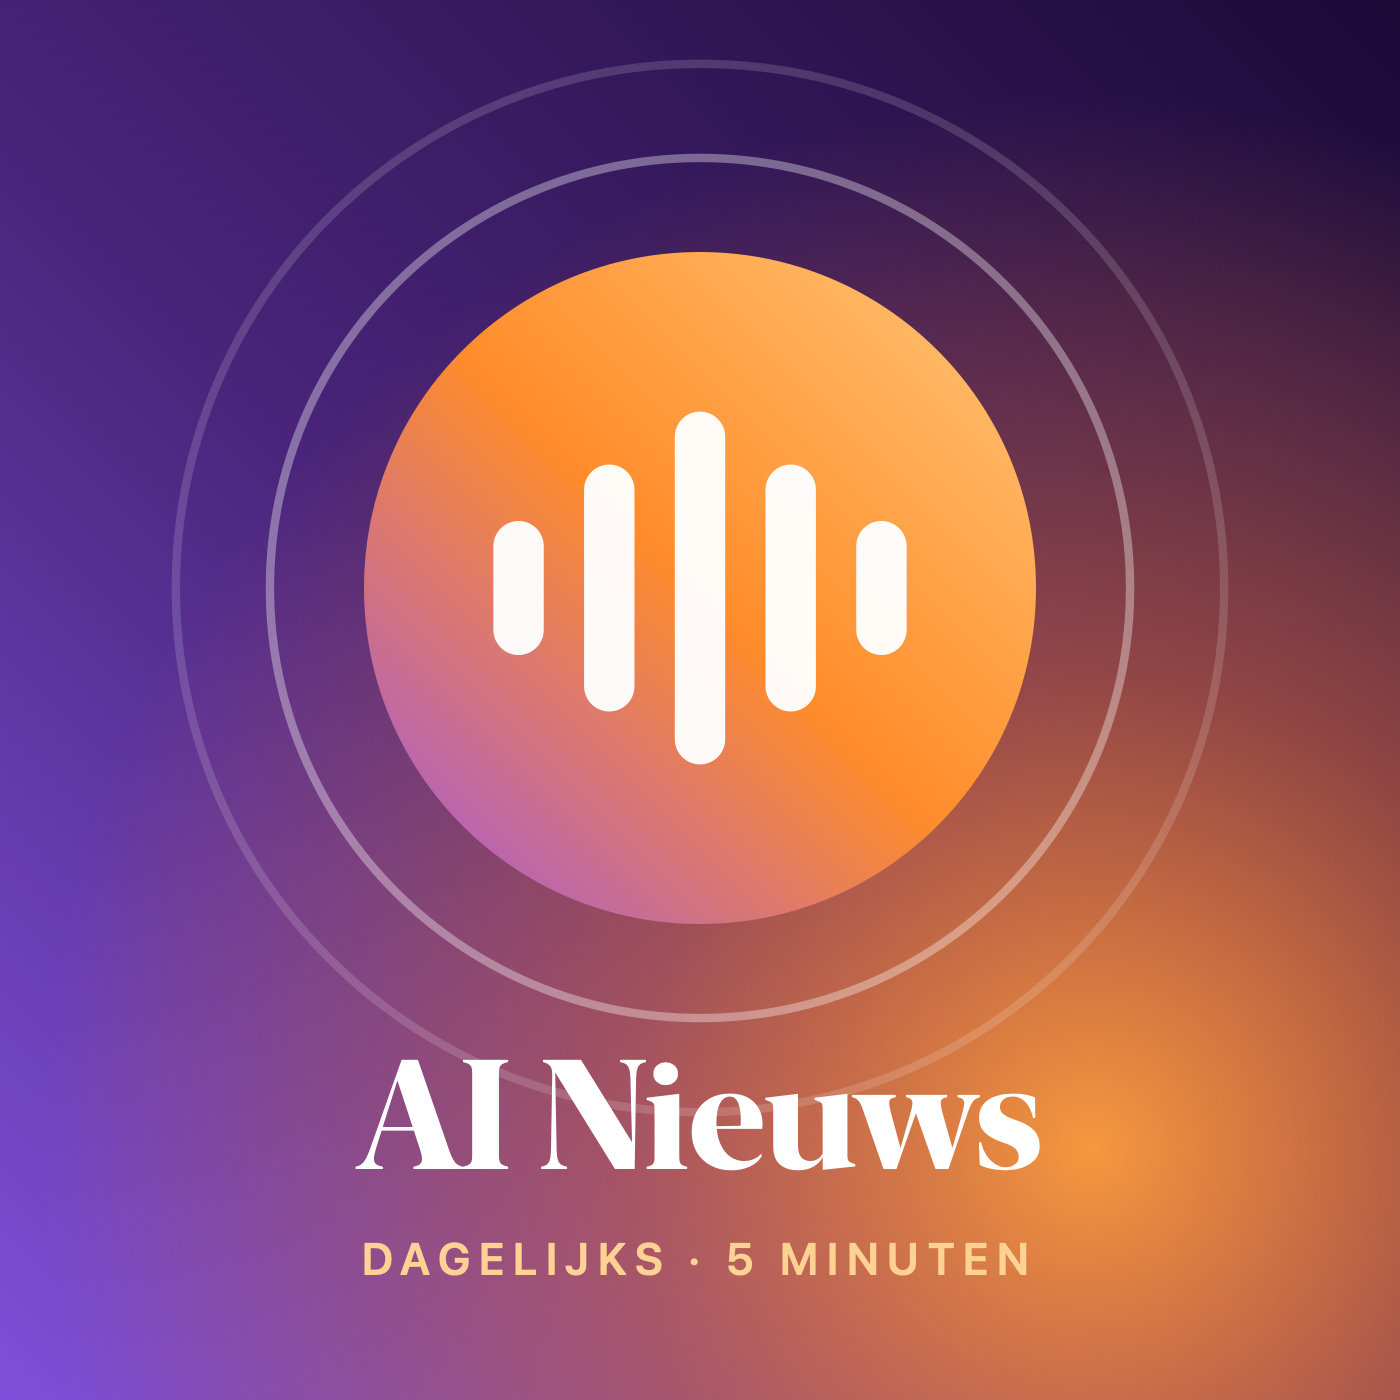
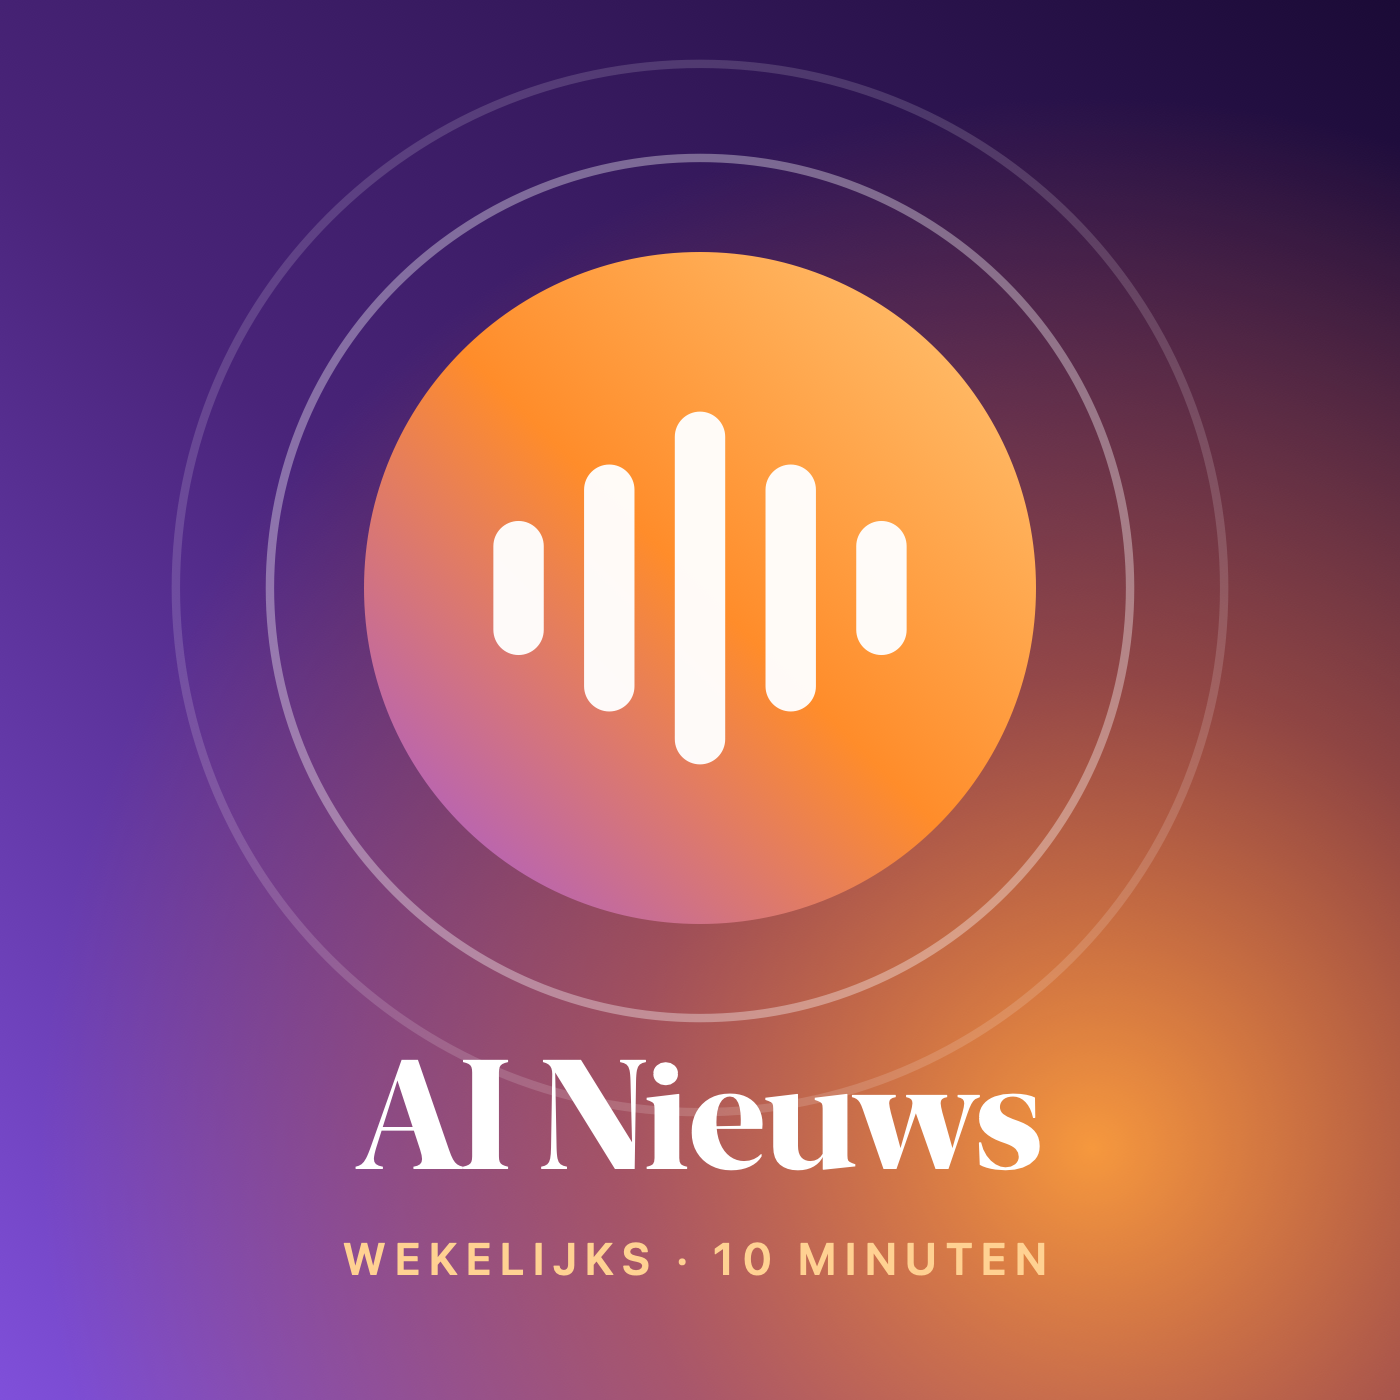
Weekoverzicht van 10 minuten en aan/uit-knop in de app
- Nieuwe status.json: de wekelijkse taak slaat het maken over als de podcast is uitgezet.
- Web-app: uitzetknop, pauzebanner en koppeling met GitHub om de status op te slaan.
- Teksten, cover en RSS-beschrijving aangepast naar wekelijks.

Changed region(s): [[0.2457, 0.8907, 0.7679, 0.9214]]

diff --git a/index.html b/index.html
@@ -4,7 +4,7 @@
 <meta charset="utf-8">
 <meta name="viewport" content="width=device-width,initial-scale=1,viewport-fit=cover">
 <title>AI Nieuws</title>
-<meta name="description" content="Het belangrijkste uit de wereld van AI, elke ochtend in vijf minuten.">
+<meta name="description" content="Elke maandag het belangrijkste uit de wereld van AI, in tien minuten.">
 <meta name="theme-color" content="#0f081f">
 <meta name="apple-mobile-web-app-capable" content="yes">
 <meta name="mobile-web-app-capable" content="yes">
@@ -66,6 +66,44 @@ header .eyebrow { color: var(--amber); }
 header h1 { margin: 6px 0 6px; font-size: 40px; font-weight: 700; display: flex; align-items: baseline; gap: 10px; }
 header h1 .dot { width: 10px; height: 10px; border-radius: 50%; background: var(--warm); box-shadow: 0 0 10px var(--orange); }
 header p { margin: 0; font-size: 15px; color: rgba(255,255,255,.65); line-height: 1.4; }
+.head-row { display: flex; align-items: flex-start; justify-content: space-between; gap: 12px; }
+.head-row .round { flex: none; margin-top: 2px; position: relative; }
+.head-row .round.off { background: rgba(255,186,97,.18); color: var(--amber); }
+.head-row .round.off::after { content: ""; position: absolute; top: 2px; right: 2px; width: 9px; height: 9px; border-radius: 50%;
+  background: var(--amber); box-shadow: 0 0 0 2px var(--ink); }
+
+/* Pauze */
+.pausebar { padding: 16px 18px; display: flex; align-items: center; gap: 14px; animation: rise .6s cubic-bezier(.2,.9,.25,1) both; }
+.pausebar .pi { flex: none; width: 40px; height: 40px; border-radius: 50%; background: rgba(255,186,97,.16); color: var(--amber); display: grid; place-items: center; }
+.pausebar .pi svg { width: 18px; height: 18px; }
+.pausebar div { flex: 1; min-width: 0; font-size: 13px; line-height: 1.4; color: rgba(255,255,255,.7); }
+.pausebar strong { display: block; font-size: 15px; color: #fff; margin-bottom: 2px; }
+.chip-btn { flex: none; padding: 8px 14px; border-radius: 99px; background: var(--warm); color: var(--ink); font-size: 13px; font-weight: 650; }
+
+.set-lead { margin: -6px 0 18px; font-size: 15px; line-height: 1.45; color: rgba(255,255,255,.7); }
+.state { display: flex; align-items: center; gap: 12px; padding: 14px 16px; border-radius: 18px; background: rgba(255,255,255,.06); margin-bottom: 18px; }
+.state .led { flex: none; width: 10px; height: 10px; border-radius: 50%; background: #5be08a; box-shadow: 0 0 10px #5be08a; }
+.state.off .led { background: var(--amber); box-shadow: 0 0 10px var(--amber); }
+.state div { font-size: 13px; line-height: 1.4; color: rgba(255,255,255,.65); }
+.state strong { display: block; font-size: 15px; color: #fff; }
+.opts { display: grid; grid-template-columns: 1fr 1fr; gap: 10px; margin: 12px 0 14px; }
+.opt { padding: 14px 12px; border-radius: 16px; background: rgba(255,255,255,.08); font-size: 15px; font-weight: 600; text-align: center; }
+.opt small { display: block; font-size: 12px; font-weight: 500; color: rgba(255,255,255,.55); margin-top: 3px; }
+.btn-wide { width: 100%; padding: 15px; border-radius: 16px; background: var(--accent); font-size: 16px; font-weight: 650;
+  box-shadow: inset 0 0 0 1px rgba(255,255,255,.3); margin-bottom: 14px; }
+.btn-wide[disabled], .opt[disabled] { opacity: .5; }
+.note { font-size: 13px; line-height: 1.45; color: rgba(255,255,255,.55); margin: 0; }
+.set-msg { min-height: 18px; font-size: 13px; color: var(--amber); margin: 10px 0 0; }
+.set-msg.ok { color: #5be08a; }
+#sheet ol.token-steps { display: block; list-style: decimal; margin: 10px 0 12px; padding-left: 20px; font-size: 14px; line-height: 1.55; color: rgba(255,255,255,.8); }
+#sheet ol.token-steps li { display: list-item; font-size: 14px; margin-bottom: 4px; }
+.token-steps a { color: var(--amber); }
+.token-row { display: flex; gap: 8px; }
+.token-row input { flex: 1; min-width: 0; padding: 12px 14px; border-radius: 14px; border: 1px solid rgba(255,255,255,.15);
+  background: rgba(0,0,0,.25); color: #fff; font: 15px var(--sans); }
+.token-row button { flex: none; padding: 0 16px; border-radius: 14px; background: var(--warm); color: var(--ink); font-weight: 650; }
+.linked { font-size: 13px; color: rgba(255,255,255,.55); }
+.linked button { color: var(--amber); text-decoration: underline; font-size: 13px; }
 
 .hero { padding: 22px; display: flex; flex-direction: column; gap: 18px; animation: rise .7s cubic-bezier(.2,.9,.25,1) both; }
 @keyframes rise { from { opacity: 0; transform: translateY(24px); } }
@@ -232,11 +270,17 @@ body.player-open #player { transform: none; visibility: visible; transition: tra
 
 <main id="home">
   <header>
-    <div class="eyebrow" id="today"></div>
-    <h1 class="display">AI Nieuws <span class="dot"></span></h1>
-    <p>Het belangrijkste uit de wereld van AI, elke ochtend in vijf minuten.</p>
+    <div class="head-row">
+      <div>
+        <div class="eyebrow" id="today"></div>
+        <h1 class="display">AI Nieuws <span class="dot"></span></h1>
+      </div>
+      <button class="round press" data-act="settings" id="setBtn" aria-label="Afleveringen aan- of uitzetten"></button>
+    </div>
+    <p>Elke maandag het belangrijkste uit de wereld van AI, in tien minuten.</p>
   </header>
   <div id="install-slot"></div>
+  <div id="status-slot"></div>
   <div id="hero-slot"><div class="loading"><div class="spinner"></div></div></div>
   <section id="archive-slot"></section>
   <footer>Liever in een podcast-app? <a href="feed.xml">RSS-feed</a></footer>
@@ -306,6 +350,7 @@ const ICON = {
   wave: '<svg viewBox="0 0 48 48"><circle cx="24" cy="24" r="21" fill="none" stroke="currentColor" stroke-width="1.6"/><path d="M14 24v0M19 19v10M24 14v20M29 19v10M34 24v0" stroke="currentColor" stroke-width="2.6" stroke-linecap="round"/></svg>',
   share: '<svg viewBox="0 0 24 24"><path d="M12 3v12M7.5 7.5L12 3l4.5 4.5M6 11H5a1 1 0 0 0-1 1v8a1 1 0 0 0 1 1h14a1 1 0 0 0 1-1v-8a1 1 0 0 0-1-1h-1" fill="none" stroke="currentColor" stroke-width="2" stroke-linecap="round" stroke-linejoin="round"/></svg>',
   x: '<svg viewBox="0 0 24 24"><path d="M6 6l12 12M18 6L6 18" stroke="currentColor" stroke-width="3" stroke-linecap="round"/></svg>',
+  power: '<svg viewBox="0 0 24 24"><path d="M12 3.5v8M6.7 6.6a7.6 7.6 0 1 0 10.6 0" fill="none" stroke="currentColor" stroke-width="2.4" stroke-linecap="round"/></svg>',
   skip(dir) {
     const flip = dir > 0 ? ' transform="matrix(-1 0 0 1 32 0)"' : '';
     return `<svg viewBox="0 0 32 32"><g${flip} fill="none" stroke="currentColor" stroke-width="2.2" stroke-linecap="round" stroke-linejoin="round"><path d="M16 4.5A11.5 11.5 0 1 1 5.3 11.8"/><path d="M18.6 1.6L15.3 4.6l3.3 3"/></g><text x="16" y="20.6" text-anchor="middle" font-size="9.5" font-weight="700" font-family="-apple-system,system-ui,sans-serif" fill="currentColor">15</text></svg>`;
@@ -366,12 +411,15 @@ const S = {
   current: null, playing: false, loading: false, playError: null,
   rate: 1, level: 0, history: new Array(40).fill(0),
   env: null, playerOpen: false, wave: [],
+  status: { paused: false, until: null, updatedAt: null }, saving: false, setMsg: '', setOk: false,
 };
 const RATES = [1, 1.25, 1.5, 0.75];
 const audio = $('#audio');
 let pendingSeek = null;
 
 // ---------- Feed ----------
+const EMPTY_MSG = 'Nog geen afleveringen gepubliceerd. De volgende verschijnt maandag om 08:00.';
+const kindLabel = (ep) => (ep.kind === 'weekly' ? 'Weekoverzicht' : 'Dagbulletin');
 function setFeed(feed) {
   S.episodes = (feed.episodes || []).slice().sort((a, b) => new Date(b.publishedAt) - new Date(a.publishedAt));
   S.loaded = true;
@@ -382,11 +430,11 @@ if (cached) { try { setFeed(JSON.parse(cached)); } catch {} }
 async function refresh() {
   try {
     const res = await fetch(`episodes.json?t=${Date.now()}`, { cache: 'no-store' });
-    if (res.status === 404) { S.loaded = true; S.error = S.episodes.length ? null : 'Nog geen afleveringen gepubliceerd. De eerste verschijnt om 08:00.'; return render(); }
+    if (res.status === 404) { S.loaded = true; S.error = S.episodes.length ? null : EMPTY_MSG; return render(); }
     const text = await res.text();
     setFeed(JSON.parse(text));
     store.set('feed', text);
-    S.error = S.episodes.length ? null : 'Nog geen afleveringen gepubliceerd. De eerste verschijnt om 08:00.';
+    S.error = S.episodes.length ? null : EMPTY_MSG;
   } catch {
     S.loaded = true;
     S.error = S.episodes.length ? null : 'Kon de afleveringen niet laden. Controleer je verbinding.';
@@ -397,6 +445,7 @@ async function refresh() {
 // ---------- Weergave home ----------
 function render() {
   $('#today').textContent = fmtDay.format(new Date());
+  renderStatus();
   const [latest, ...archive] = S.episodes;
   const heroSlot = $('#hero-slot');
   if (latest) heroSlot.innerHTML = heroHTML(latest);
@@ -422,7 +471,7 @@ function heroHTML(ep) {
     <ol class="headlines">${(ep.headlines || []).slice(0, 4).map((h, i) => `<li><span>${String(i + 1).padStart(2, '0')}</span>${esc(h)}</li>`).join('')}</ol>
     <div class="hero-play">
       <button class="bigplay press" id="heroPlay" data-play="${esc(ep.id)}" aria-label="${playing ? 'Pauzeer' : 'Speel af'}">${playing ? ICON.pause : ICON.play}</button>
-      <div class="hp-text"><strong>${label}</strong>${cur ? '<div class="bar"><i id="heroProg"></i></div>' : `<small>${fmtTime.format(d)} · Zakelijk nieuwsbulletin</small>`}</div>
+      <div class="hp-text"><strong>${label}</strong>${cur ? '<div class="bar"><i id="heroProg"></i></div>' : `<small>${fmtTime.format(d)} · ${kindLabel(ep)}</small>`}</div>
       ${playing ? EQ : ''}
     </div>
   </article>`;
@@ -435,7 +484,7 @@ function rowHTML(ep) {
   const playing = S.current?.id === ep.id && S.playing;
   return `<button class="ep" data-play="${esc(ep.id)}">
     <span class="date"><b>${d.getDate()}</b><small>${esc(fmtMon.format(d).replace('.', '').toUpperCase())}</small></span>
-    <span class="meta"><strong>${esc(ep.title)}</strong><span>${minutes(ep.duration)}${status}</span></span>
+    <span class="meta"><strong>${esc(ep.title)}</strong><span>${ep.kind === 'weekly' ? 'Week · ' : ''}${minutes(ep.duration)}${status}</span></span>
     <span class="go">${playing ? EQ : `<span class="circle">${ICON.play}</span>`}</span>
   </button>`;
 }
@@ -786,6 +835,8 @@ function openSheet() {
   $('#sheet').innerHTML = `<div class="grab"></div><h3>In deze aflevering</h3>
     <ol>${(ep.headlines || []).map((h, i) => `<li><span>${i + 1}</span>${esc(h)}</li>`).join('')}</ol>
     ${paras ? `<hr><div class="eyebrow">Transcript</div><div class="transcript">${paras}</div>` : ''}`;
+  $('#sheet').dataset.mode = 'transcript';
+  $('#sheet').setAttribute('aria-label', 'Transcript');
   $('#sheet').scrollTop = 0;
   $('#sheet').classList.add('show');
   $('#scrim').classList.add('show');
@@ -809,6 +860,170 @@ function closeSheet() { $('#sheet').classList.remove('show'); $('#scrim').classL
   });
 })();
 
+// ---------- Aan/uit (pauze) ----------
+// De pauze staat in status.json in de GitHub-repo; de wekelijkse taak op de Mac leest die.
+// Schrijven gaat via de GitHub-API met een token dat alleen op dit toestel wordt bewaard.
+const REPO_API = 'https://api.github.com/repos/Rappar64/ai-nieuws-podcast/contents/status.json';
+const TOKEN_URL = 'https://github.com/settings/personal-access-tokens/new';
+const fmtLong = new Intl.DateTimeFormat('nl-NL', { weekday: 'long', day: 'numeric', month: 'long' });
+const isoDay = (d) => `${d.getFullYear()}-${String(d.getMonth() + 1).padStart(2, '0')}-${String(d.getDate()).padStart(2, '0')}`;
+const parseDay = (s) => { const [y, m, d] = s.slice(0, 10).split('-').map(Number); return new Date(y, m - 1, d); };
+
+function pausedNow(st = S.status) {
+  if (!st.paused) return false;
+  return !st.until || isoDay(new Date()) < st.until.slice(0, 10);
+}
+// Eerstvolgende maandag 08:00 (vanaf `from`), de tijd waarop de taak draait.
+function nextMonday(from = new Date()) {
+  const d = new Date(from); d.setHours(8, 15, 0, 0);
+  while (d.getDay() !== 1 || d < from) { d.setDate(d.getDate() + 1); d.setHours(8, 15, 0, 0); }
+  return d;
+}
+function nextEpisodeDate() {
+  if (!pausedNow()) return nextMonday();
+  if (!S.status.until) return null;
+  const until = parseDay(S.status.until);
+  return nextMonday(until < new Date() ? new Date() : until);
+}
+
+function applyStatus(st) {
+  if (!st) return;
+  const cur = S.status.updatedAt ? Date.parse(S.status.updatedAt) : 0;
+  const nxt = st.updatedAt ? Date.parse(st.updatedAt) : 0;
+  if (nxt >= cur) S.status = { paused: !!st.paused, until: st.until || null, updatedAt: st.updatedAt || null };
+}
+try { applyStatus(JSON.parse(store.get('status') || 'null')); } catch {}
+
+async function loadStatus() {
+  try {
+    const res = await fetch(`status.json?t=${Date.now()}`, { cache: 'no-store' });
+    if (res.ok) applyStatus(await res.json());
+  } catch {}
+  store.set('status', JSON.stringify(S.status));
+  render();
+}
+
+async function writeStatus(st, message) {
+  const token = store.get('ghToken');
+  if (!token) throw new Error('Koppel eerst GitHub (hieronder), dan kan de app de pauze opslaan.');
+  const headers = { Authorization: `Bearer ${token}`, Accept: 'application/vnd.github+json', 'X-GitHub-Api-Version': '2022-11-28' };
+  const why = (r) => r.status === 401 ? 'Het GitHub-token is ongeldig of verlopen. Maak een nieuw token aan.'
+    : (r.status === 403 || r.status === 404) ? 'Het token mag niet schrijven in ai-nieuws-podcast. Geef het "Contents: Read and write" op die repo.'
+    : `GitHub gaf foutcode ${r.status}. Probeer het later opnieuw.`;
+  const cur = await fetch(`${REPO_API}?ref=main&t=${Date.now()}`, { headers, cache: 'no-store' });
+  if (!cur.ok && cur.status !== 404) throw new Error(why(cur));
+  const sha = cur.ok ? (await cur.json()).sha : undefined;
+  const content = btoa(unescape(encodeURIComponent(JSON.stringify(st, null, 2) + '\n')));
+  const res = await fetch(REPO_API, { method: 'PUT', headers, body: JSON.stringify({ message, content, branch: 'main', ...(sha ? { sha } : {}) }) });
+  if (!res.ok) throw new Error(why(res));
+}
+
+async function setPause(days) {
+  if (S.saving) return;
+  let st, msg;
+  if (days === null) {
+    st = { paused: false, until: null, updatedAt: new Date().toISOString() };
+    msg = 'Podcast hervat';
+  } else {
+    const until = days > 0 ? (() => { const d = new Date(); d.setDate(d.getDate() + days); return isoDay(d); })() : null;
+    st = { paused: true, until, updatedAt: new Date().toISOString() };
+    msg = until ? `Podcast gepauzeerd tot ${until}` : 'Podcast gepauzeerd tot hervatten';
+  }
+  S.saving = true; S.setMsg = 'Opslaan…'; S.setOk = false; renderSettings();
+  try {
+    await writeStatus(st, msg);
+    applyStatus(st);
+    store.set('status', JSON.stringify(S.status));
+    S.setMsg = days === null ? 'Hervat. Maandag om 08:00 verschijnt weer een weekoverzicht.' : 'Opgeslagen. Er worden geen nieuwe afleveringen gemaakt.';
+    S.setOk = true;
+    navigator.vibrate?.(12);
+  } catch (err) {
+    S.setMsg = err.message || 'Opslaan mislukt.';
+  }
+  S.saving = false;
+  render(); renderSettings();
+}
+
+function saveToken() {
+  const v = ($('#tokenInput')?.value || '').trim();
+  if (!/^(github_pat_|ghp_)[A-Za-z0-9_]{20,}$/.test(v)) { S.setMsg = 'Dit lijkt geen GitHub-token (begint met github_pat_).'; S.setOk = false; return renderSettings(); }
+  store.set('ghToken', v);
+  S.setMsg = 'GitHub gekoppeld. Kies hierboven hoe lang je wilt pauzeren.'; S.setOk = true;
+  renderSettings();
+}
+function clearToken() {
+  try { localStorage.removeItem('ghToken'); } catch {}
+  S.setMsg = 'GitHub ontkoppeld op dit toestel.'; S.setOk = true;
+  renderSettings();
+}
+
+function statusLine() {
+  const next = nextEpisodeDate();
+  if (!pausedNow()) return { title: 'Aan', text: `Volgende weekoverzicht: ${fmtLong.format(next)}, 08:00.` };
+  if (!S.status.until) return { title: 'Uitgezet', text: 'Tot je hem weer aanzet worden er geen afleveringen gemaakt.' };
+  return { title: `Uitgezet tot ${fmtLong.format(parseDay(S.status.until))}`, text: `Daarna weer elke maandag; de eerstvolgende op ${fmtLong.format(next)}.` };
+}
+
+function renderStatus() {
+  const off = pausedNow();
+  const btn = $('#setBtn');
+  btn.classList.toggle('off', off);
+  btn.innerHTML = ICON.power;
+  const line = statusLine();
+  $('#status-slot').innerHTML = off
+    ? `<div class="glass pausebar"><span class="pi">${ICON.pause}</span>
+        <div><strong>${esc(line.title)}</strong>Er worden geen nieuwe afleveringen gemaakt.</div>
+        <button class="chip-btn press" data-act="resume">Aanzetten</button></div>`
+    : '';
+}
+
+function settingsHTML() {
+  const off = pausedNow();
+  const line = statusLine();
+  const token = store.get('ghToken');
+  const dis = S.saving ? ' disabled' : '';
+  const opt = (days, label, sub) => `<button class="opt press" data-act="pause" data-days="${days}"${dis}>${label}<small>${sub}</small></button>`;
+  const until = (days) => { const d = new Date(); d.setDate(d.getDate() + days); return 't/m ' + new Intl.DateTimeFormat('nl-NL', { day: 'numeric', month: 'short' }).format(d); };
+  return `<div class="grab"></div><h3>Afleveringen</h3>
+    <p class="set-lead">Elke maandag om 08:00 verschijnt een weekoverzicht van ongeveer tien minuten.</p>
+    <div class="state${off ? ' off' : ''}"><span class="led"></span><div><strong>${esc(line.title)}</strong>${esc(line.text)}</div></div>
+    ${off
+      ? `<button class="btn-wide press" data-act="resume"${dis}>Weer aanzetten</button>`
+      : `<div class="eyebrow">Een tijdje uitzetten</div>
+         <div class="opts">${opt(14, '2 weken', until(13))}${opt(30, '1 maand', until(29))}${opt(91, '3 maanden', until(90))}${opt(0, 'Tot ik hem aanzet', 'geen einddatum')}</div>`}
+    <p class="note">Uitgezet worden er geen nieuwe afleveringen gemaakt en kost het geen ElevenLabs-tegoed. Bestaande afleveringen blijven gewoon te beluisteren.</p>
+    <p class="set-msg${S.setOk ? ' ok' : ''}" id="setMsg">${esc(S.setMsg)}</p>
+    <hr>
+    <div class="eyebrow">Koppeling met GitHub</div>
+    ${token
+      ? `<p class="linked">Gekoppeld op dit toestel · <button data-act="cleartoken">Ontkoppelen</button></p>`
+      : `<ol class="token-steps">
+          <li>Open <a href="${TOKEN_URL}" target="_blank" rel="noopener">GitHub → nieuw fine-grained token</a>.</li>
+          <li>Repository access: <b>Only select repositories</b> → <b>ai-nieuws-podcast</b>.</li>
+          <li>Permissions → Repository → <b>Contents: Read and write</b>.</li>
+          <li>Generate token, kopieer het en plak het hieronder.</li>
+        </ol>
+        <div class="token-row"><input id="tokenInput" type="password" autocomplete="off" autocapitalize="off" spellcheck="false" placeholder="github_pat_…"><button class="press" data-act="savetoken">Koppel</button></div>
+        <p class="note" style="margin-top:8px">Het token blijft alleen op dit toestel en mag uitsluitend deze ene repo aanpassen.</p>`}`;
+}
+function renderSettings() {
+  if ($('#sheet').dataset.mode !== 'settings' || !$('#sheet').classList.contains('show')) return;
+  const typed = $('#tokenInput')?.value;
+  $('#sheet').innerHTML = settingsHTML();
+  if (typed && $('#tokenInput')) $('#tokenInput').value = typed;
+}
+function openSettings() {
+  S.setMsg = ''; S.setOk = false;
+  const sh = $('#sheet');
+  sh.dataset.mode = 'settings';
+  sh.setAttribute('aria-label', 'Afleveringen aan of uit');
+  sh.innerHTML = settingsHTML();
+  sh.scrollTop = 0;
+  sh.classList.add('show');
+  $('#scrim').classList.add('show');
+  loadStatus().then(renderSettings);
+}
+
 // ---------- Klikken ----------
 function start(id) {
   const ep = S.episodes.find((e) => e.id === id);
@@ -822,7 +1037,9 @@ document.addEventListener('click', (e) => {
   if (act) {
     e.stopPropagation();
     ({ toggle, back: () => skip(-15), fwd: () => skip(15), rate: cycleRate, close: closePlayer,
-       transcript: openSheet, sheetclose: closeSheet, dismiss: dismissInstall }[act.dataset.act] || (() => {}))();
+       transcript: openSheet, sheetclose: closeSheet, dismiss: dismissInstall,
+       settings: openSettings, resume: () => setPause(null), pause: () => setPause(Number(act.dataset.days)),
+       savetoken: saveToken, cleartoken: clearToken }[act.dataset.act] || (() => {}))();
     return;
   }
   const p = e.target.closest('[data-play]');
@@ -854,6 +1071,8 @@ addEventListener('resize', () => { sizeAurora(); if (S.playerOpen) { sizeWave();
 addEventListener('pagehide', () => saveProgress());
 render();
 refresh();
+loadStatus();
+document.addEventListener('visibilitychange', () => { if (!document.hidden) { refresh(); loadStatus(); } });
 requestAnimationFrame(frame);
 if ('serviceWorker' in navigator && location.protocol === 'https:') navigator.serviceWorker.register('sw.js').catch(() => {});
 })();

diff --git a/sw.js b/sw.js
@@ -1,8 +1,8 @@
 // Service worker voor de AI Nieuws-webapp.
 // - App-schil (HTML, iconen) wordt bewaard, zodat de app ook zonder netwerk opent.
-// - index.html en episodes.json: eerst netwerk (altijd vers), anders de bewaarde versie.
+// - index.html, episodes.json en status.json: eerst netwerk (altijd vers), anders de bewaarde versie.
 // - mp3's laten we met rust: die streamt de browser zelf (met range-requests).
-const VERSION = 'ainieuws-v1';
+const VERSION = 'ainieuws-v2';
 const SHELL = [
   './',
   'index.html',
@@ -33,10 +33,11 @@ self.addEventListener('fetch', (event) => {
   if (url.pathname.endsWith('.mp3') || url.pathname.endsWith('.xml')) return;
 
   const networkFirst = req.mode === 'navigate' || url.pathname.endsWith('/') ||
-    url.pathname.endsWith('index.html') || url.pathname.endsWith('episodes.json');
+    url.pathname.endsWith('index.html') || url.pathname.endsWith('episodes.json') || url.pathname.endsWith('status.json');
 
   if (networkFirst) {
-    const cacheKey = url.pathname.endsWith('episodes.json') ? 'episodes.json' : 'index.html';
+    const file = url.pathname.split('/').pop();
+    const cacheKey = file === 'episodes.json' || file === 'status.json' ? file : 'index.html';
     event.respondWith(
       fetch(req)
         .then((res) => {
